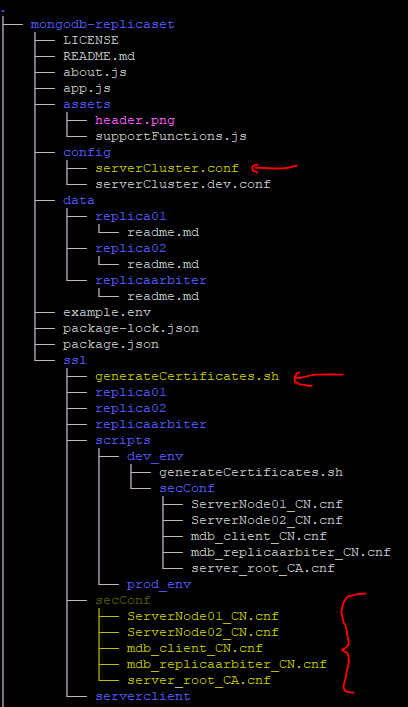
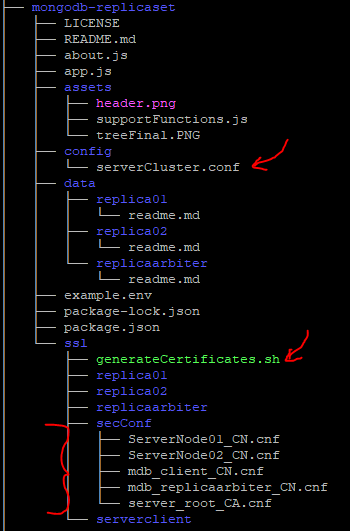
Directory update

diff --git a/README.md b/README.md
@@ -38,31 +38,43 @@ Esta implementación se realizará con Docker Run, de esta manera quedarán los 
 
 > git clone https://github.com/kathemica/mongodb-replicaset.git
 
-2. Desde la misma carpeta ejecutar: 
-
+2. Ahora vamos a mover los archivos necesarios para correr el script, desde la misma carpeta ejecutamos: 
 ```
-sudo mv -v mongodb-replicaset/ssl/scripts/prod_env/* mongodb-replicaset/ssl/
+$ sudo mv -v mongodb-replicaset/ssl/scripts/prod_env/* mongodb-replicaset/ssl/
 ```
+**NOTA: dependiendo del ambiente selecciona: *prod_env* ó *dev_env***
 
-**NOTA**: dependiendo del ambiente selecciona: *prod_env* ó *dev_env*
+Luego para dejar más limpia la estructura removemos la carpeta que no nos hace falta:
+```
+$ sudo rm -r mongodb-replicaset/ssl/scripts
+```
 
 3. Ahora procederemos a cambiar los permisos del script:
+```
+$ sudo chmod u+x mongodb-replicaset/ssl/generateCertificates.sh
+```
+
+4. Una vez hecho esto debemos seleccionar el archivo de configuración, para esto ejecutaremos:
+```
+$ sudo mv mongodb-replicaset/config/serverCluster.prod.conf mongodb-replicaset/config/serverCluster.conf
+```
+**NOTA: dependiendo del ambiente renombra a sólo *.conf* bien sea *.dev.conf* ó *prod.conf*** 
+
+
+Igualmente procedemos a borrar lo que nos sobra:
 
 ```
-sudo chmod -w mongodb-replicaset/ssl/generateCertificates.sh
-```
-
-4. Una vez hecho esto debemos seleccionar el archivo de configuracion, para esto ejecutaremos:
-```
-sudo chmod -w mongodb-replicaset/ssl/generateCertificates.sh
+$ sudo rm -r mongodb-replicaset/config/serverCluster.dev.conf
 ```
 
 Al final de todas estas operaciones nos debería quedar la siguiente estructura:
 
 ![header](assets/treeFinal.png)
 
-3. Luego ejecutamos el script para generar los certificados:
-> sudo sh configScript.sh
+5. Luego ejecutamos el script para generar los certificados, navegamos hasta la carpeta ssl y ejecutamos el script:
+> cd mongodb-replicaset/ssl/
+
+> ./generateCertificates.sh
 
 Una vez que se haya ejecutado el archivo y configurado todo el sistema de certificados procedemos a levantar las instancias:
 
